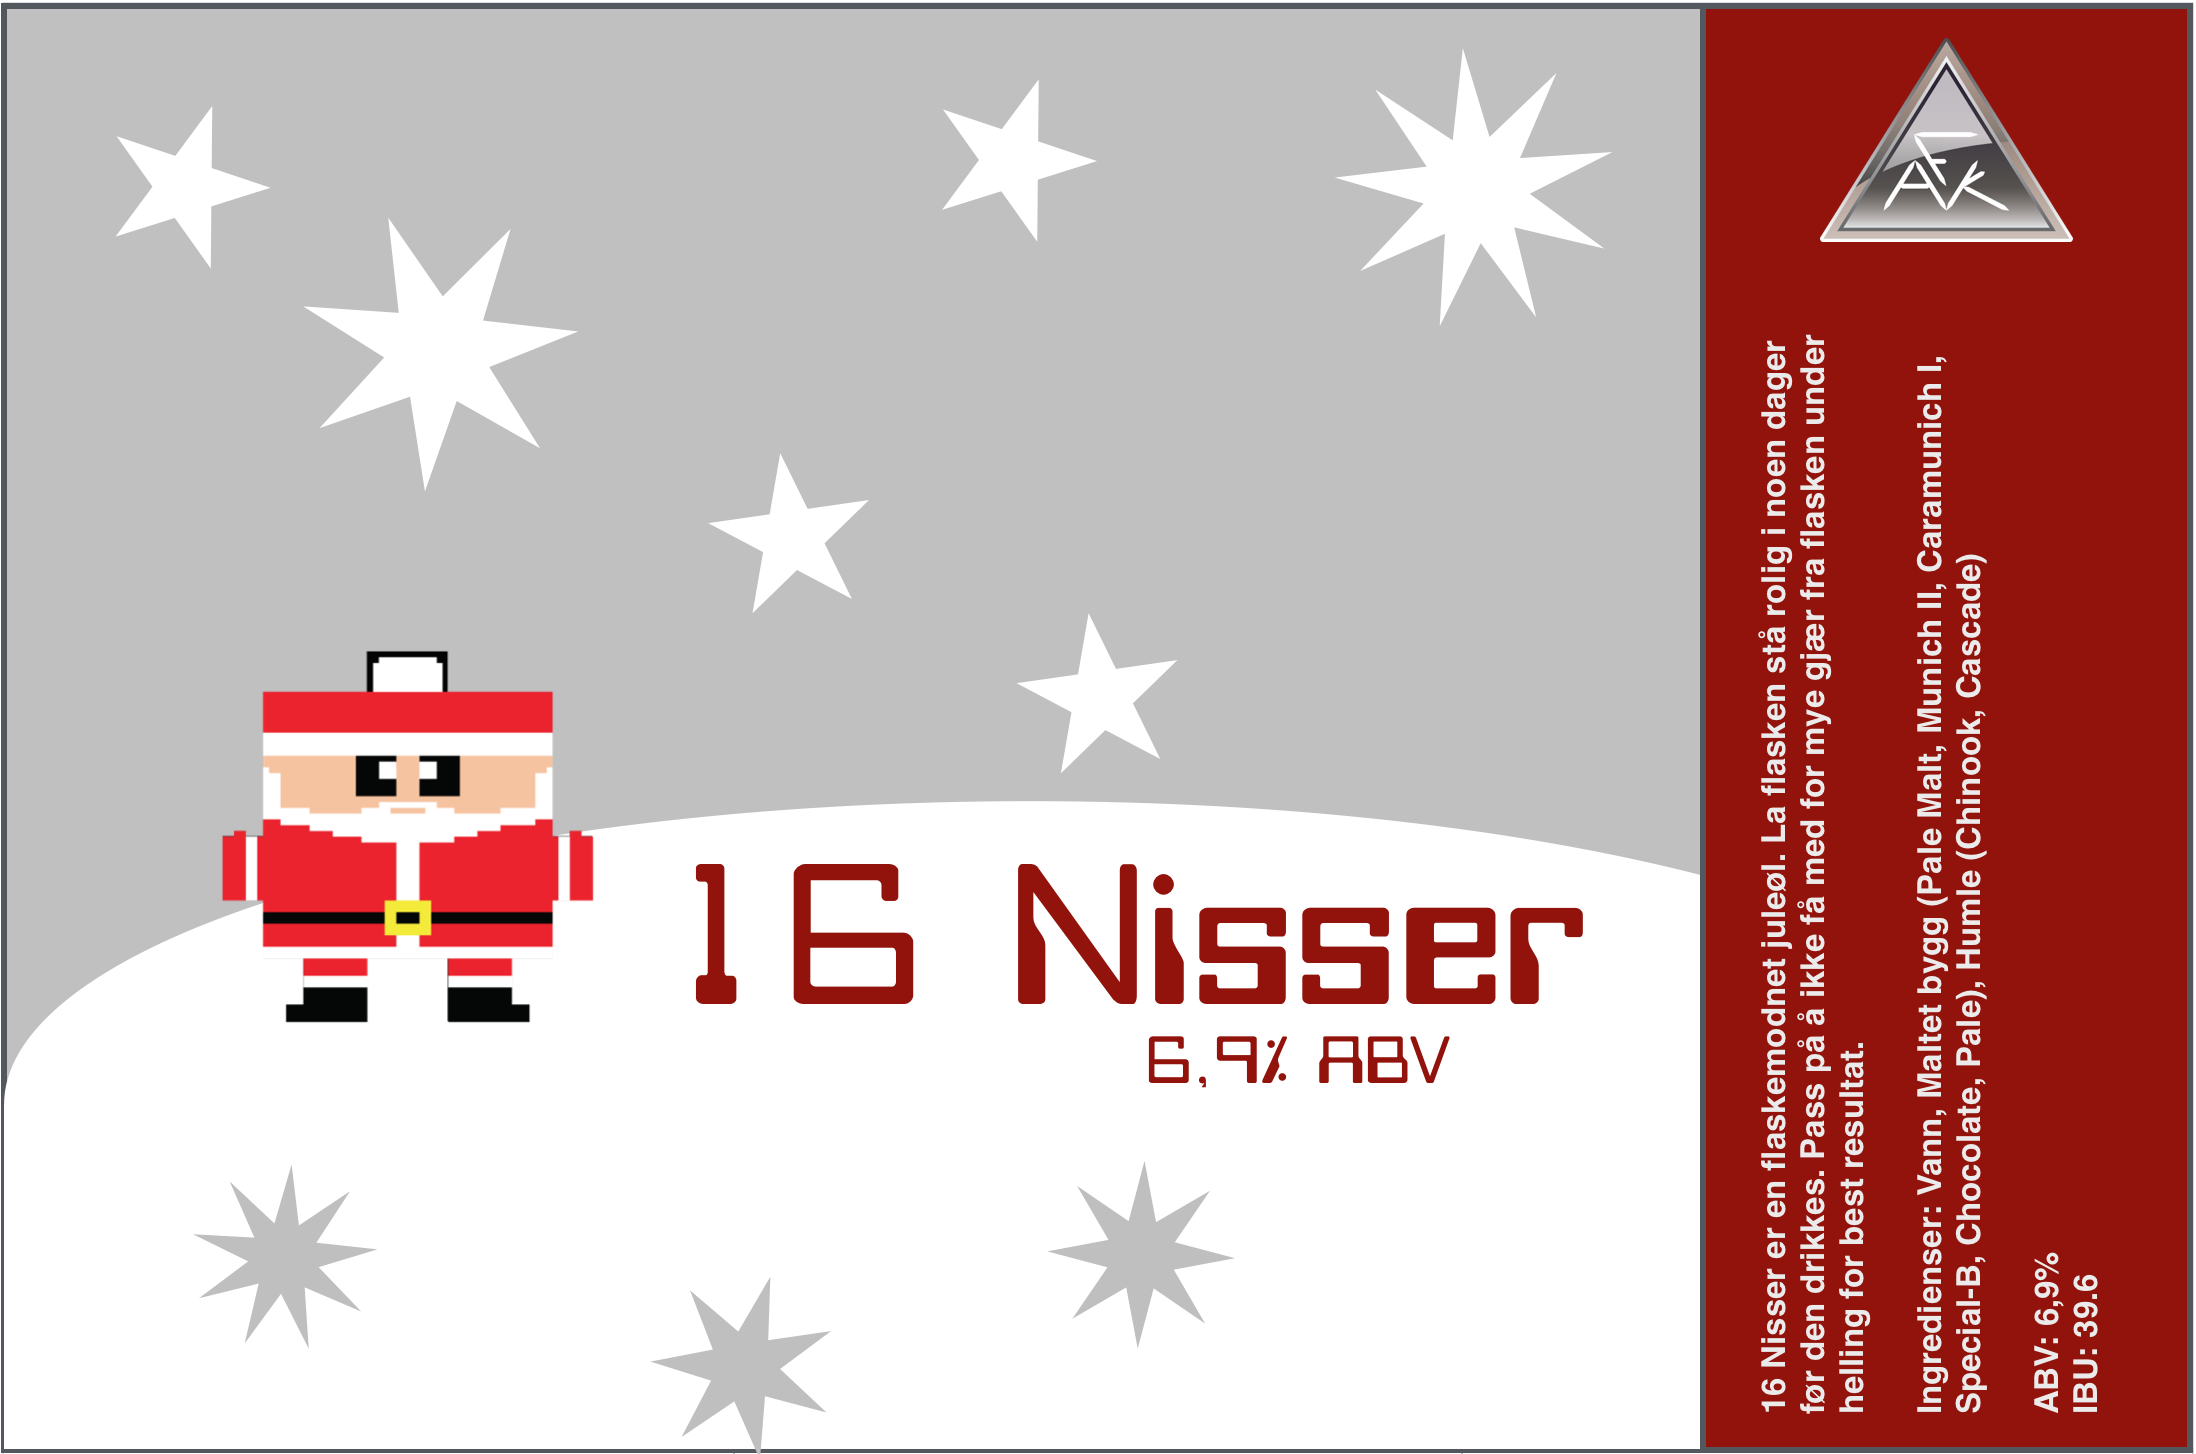
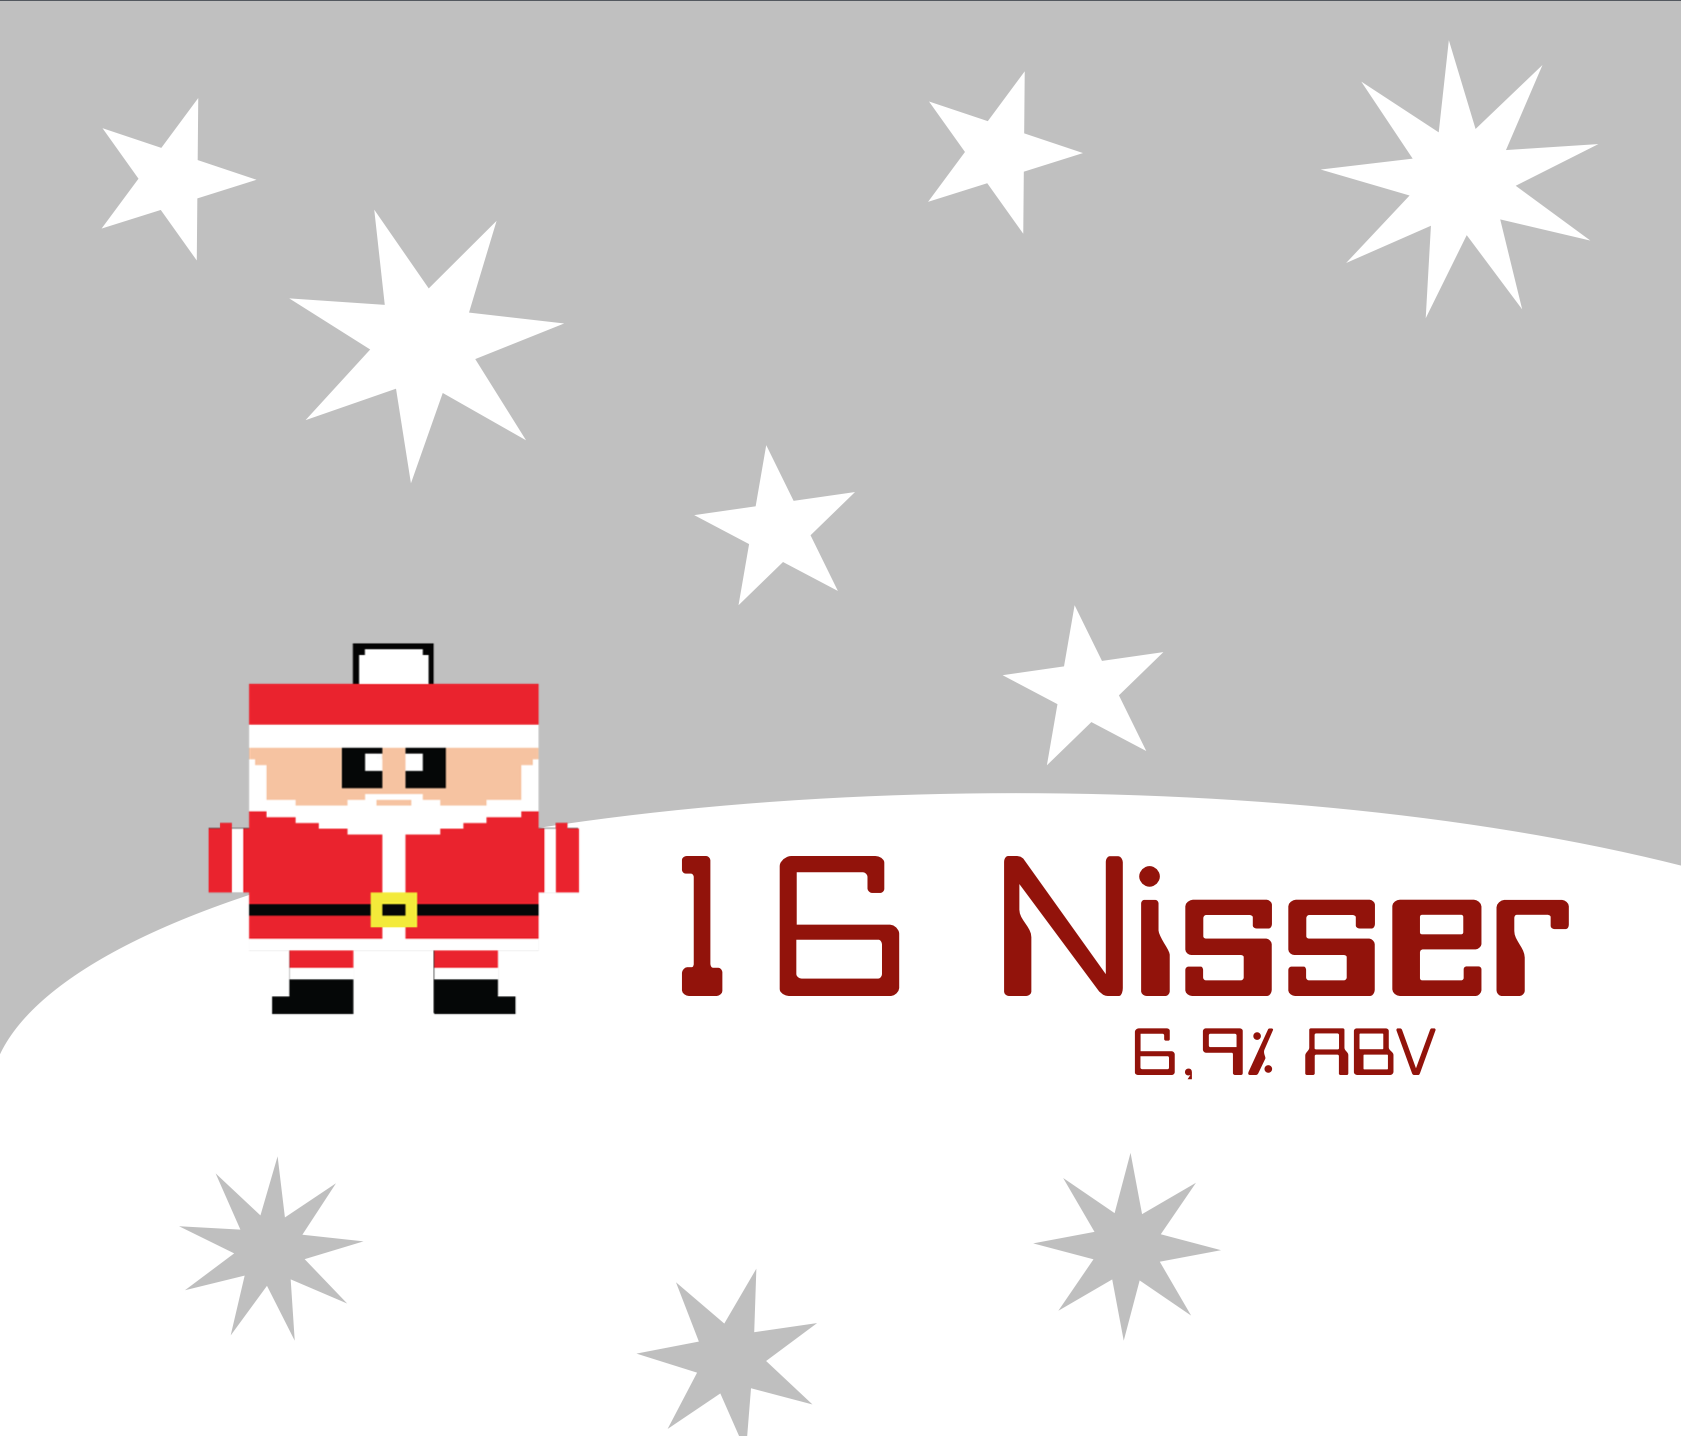
add cropped image

diff --git a/vaare_brygg.md b/vaare_brygg.md
@@ -5,7 +5,7 @@ permalink: /vaare_brygg/
 beers:
  - name: 16 Nisser
    type: Christmas Ale
-   image: assets/beers/16Nisser.png
+   image: assets/beers/16nisser.png
    ABV: 6.9%
    IBU: 39.6
    recipe: /assets/xmls/JuleAle2016xml.xml
